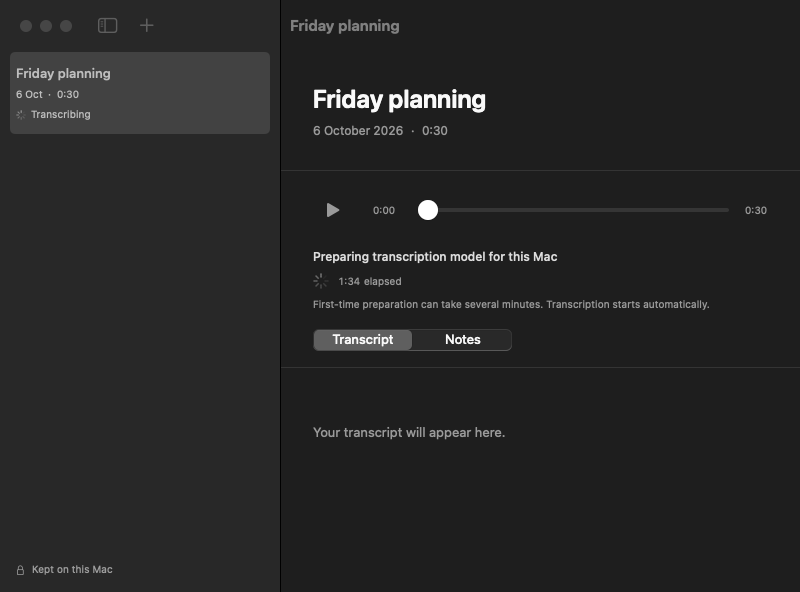
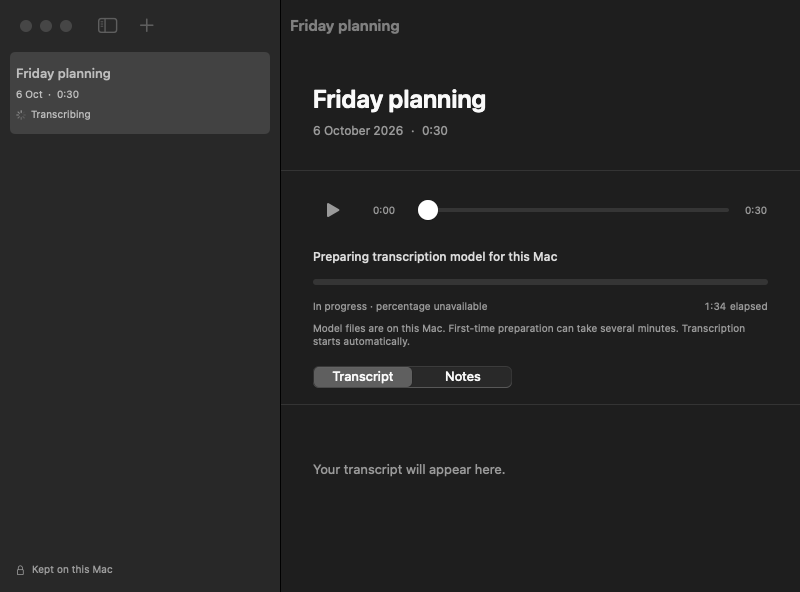
Clarify model preparation and show indeterminate progress bars

Changed region(s): [[0.375, 0.4561, 0.9688, 0.6689], [0.4062, 0.6993, 0.625, 0.7601], [0.4062, 0.7905, 0.625, 0.8209]]

diff --git a/Sources/Recall/Services/LocalSpeechEngines.swift b/Sources/Recall/Services/LocalSpeechEngines.swift
@@ -24,11 +24,12 @@ actor WhisperTranscriptionEngine: TranscriptionEngine {
             localFolder = folder.path
         }
         await progress(ProcessingProgress(message: "Preparing transcription model for this Mac",
-            detail: "First-time preparation can take several minutes. Transcription starts automatically."))
+            detail: "Model files are on this Mac. First-time preparation can take several minutes. Transcription starts automatically."))
         let kit = try await WhisperKit(WhisperKitConfig(model: modelName, downloadBase: models,
             modelFolder: localFolder, verbose: false, prewarm: true, load: true, download: false))
         do {
-            await progress("Transcribing on your Mac")
+            await progress(ProcessingProgress(message: "Transcribing on your Mac",
+                detail: "Model setup is complete. Your recording is now being transcribed locally."))
             let results = try await kit.transcribe(
                 audioPath: audio.path,
                 audioInputOptions: AudioInputOptions(audioLoadingMode: .incremental),
@@ -67,9 +68,10 @@ actor SpeakerDiarizationEngine: DiarizationEngine {
                 try await (diarizer as ModelManager).downloadModels(progressCallback: callback)
             }
             await progress(ProcessingProgress(message: "Preparing speaker models for this Mac",
-                detail: "First-time preparation can take several minutes. Speaker detection starts automatically."))
+                detail: "Model files are on this Mac. First-time preparation can take several minutes. Speaker detection starts automatically."))
             try await diarizer.loadModels()
-            await progress("Listening for different speakers on your Mac")
+            await progress(ProcessingProgress(message: "Listening for different speakers on your Mac",
+                detail: "Your transcript is saved. Identifying speakers in the recording."))
             let samples = try AudioProcessor.loadAudioAsFloatArray(fromPath: audio.path)
             let result = try await kit.diarize(audioArray: samples)
             let turns = result.segments.compactMap { segment -> SpeakerTurn? in

diff --git a/Sources/Recall/Views/ProcessingProgressView.swift b/Sources/Recall/Views/ProcessingProgressView.swift
@@ -26,10 +26,13 @@ struct ProcessingProgressView: View {
                     elapsed
                 }.font(.caption).foregroundStyle(.secondary).lineLimit(1)
             } else {
-                HStack(spacing: 9) {
-                    ProgressView().controlSize(.small)
+                ProgressView().progressViewStyle(.linear).tint(.purple)
+                    .accessibilityLabel(progress.message + ". Progress percentage unavailable.")
+                HStack {
+                    Text("In progress · percentage unavailable")
+                    Spacer()
                     elapsed
-                }.font(.caption).foregroundStyle(.secondary)
+                }.font(.caption).foregroundStyle(.secondary).lineLimit(1)
             }
             if let detail = progress.detail {
                 Text(detail).font(.caption).foregroundStyle(.secondary).lineLimit(2)

diff --git a/Sources/Recall/App/PreviewCapture.swift b/Sources/Recall/App/PreviewCapture.swift
@@ -52,7 +52,7 @@ import AVFoundation
             sample.setUserInfoObject(4_200_000.0, forKey: .throughputKey)
             item.processingProgress = mode == "preparing"
                 ? ProcessingProgress(message: "Preparing transcription model for this Mac", startedAt: Date().addingTimeInterval(-92),
-                    detail: "First-time preparation can take several minutes. Transcription starts automatically.")
+                    detail: "Model files are on this Mac. First-time preparation can take several minutes. Transcription starts automatically.")
                 : ProcessingProgress(message: "Downloading transcription model · 1 of 2", startedAt: Date().addingTimeInterval(-24),
                     download: DownloadProgress(sample), detail: "Models download once and stay on this Mac.")
         }

diff --git a/Sources/Recall/Services/ProcessingProgress.swift b/Sources/Recall/Services/ProcessingProgress.swift
@@ -48,7 +48,8 @@ func withModelDownloadProgress<T>(message: String, progress: @escaping EnginePro
     operation: (@escaping @Sendable (Progress) -> Void) async throws -> T) async throws -> T {
     let startedAt = Date()
     let detail = "Models download once and stay on this Mac."
-    await progress(ProcessingProgress(message: message, startedAt: startedAt, detail: detail))
+    await progress(ProcessingProgress(message: "Checking model files", startedAt: startedAt,
+        detail: "Looking for models on this Mac. Missing files download automatically."))
     let (stream, continuation) = AsyncStream<DownloadProgress>.makeStream(bufferingPolicy: .bufferingNewest(1))
     let consumer = Task {
         for await snapshot in stream {

diff --git a/Tests/RecallTests/DownloadProgressTests.swift b/Tests/RecallTests/DownloadProgressTests.swift
@@ -42,7 +42,7 @@ struct DownloadProgressTests {
         }
         await recorder.append("Preparing")
         let values = await recorder.values
-        #expect(values.first?.message == "Downloading")
+        #expect(values.first?.message == "Checking model files")
         #expect(values.dropLast().last?.download?.percent == 100)
         #expect(values.last?.message == "Preparing")
     }

diff --git a/docs/VALIDATION.md b/docs/VALIDATION.md
@@ -66,3 +66,9 @@ New checks cover partial-file percentages, immutable callback snapshots, unknown
 Inspected native download and preparation panels in light/dark mode at the minimum window size. Bounded multiline labels prevent SwiftUI's split-view minimum-size measurement from expanding the content beyond the window. The captures in `docs/screenshots/model-download.png` and `model-preparation-dark.png` use synthetic progress and an isolated preview library.
 
 Built the optimized ARM64 app as version 0.1.2 (build 3), verified its local code signature, and validated `build/Recall-0.1.2-macOS-arm64.zip` with `unzip -t`. The unversioned transfer ZIP contains the same release. Model weights remain separate and download on each Mac's first use.
+
+## Clarify preparation after restarting (0.1.3)
+
+Preparation now explicitly says the model files are already on the Mac. Stages without a measurable percentage use a native indeterminate linear bar, an explicit percentage-unavailable label, and elapsed time. Before the first download callback, the app says it is checking model files rather than claiming a download is underway. Transcription and speaker detection also explain what is happening and whether the transcript has been saved.
+
+This clarifies recovery of an import interrupted in an earlier version: completed model downloads are reused, models are prepared for use, and unfinished transcription starts again. No processing or persistence behavior changed. All 16 regular tests passed, including disk-backed recovery and callback ordering; the three opt-in integration tests were skipped for this UI/copy change. The native preparation screenshot was refreshed and inspected at the minimum window size in dark mode.

diff --git a/README.md b/README.md
@@ -27,7 +27,7 @@ Failed speaker detection preserves the transcript. Retry resumes the missing sta
 
 ## Models and storage
 
-First import automatically downloads Whisper `large-v3-v20240930_626MB` and SpeakerKit's default Pyannote models from Hugging Face. Each download shows a progress bar, percentage across model files, completed file count, download speed when available, and elapsed time. The SDK weights files equally, so this is file progress, not a byte percentage or time estimate. Model preparation is a separate stage with elapsed time; it can take several minutes on first use. Allow several GB of free space for downloads, compiled models, and audio. No Hugging Face account or API key is required. Subsequent processing uses local models. Foundation Models is supplied and downloaded by macOS itself.
+First import automatically downloads Whisper `large-v3-v20240930_626MB` and SpeakerKit's default Pyannote models from Hugging Face. Each download shows a progress bar, percentage across model files, completed file count, download speed when available, and elapsed time. The SDK weights files equally, so this is file progress, not a byte percentage or time estimate. Model preparation is a separate stage: the files are already on the Mac, and first-time preparation can take several minutes. Preparation and other stages without a measurable percentage show an animated bar, an explicit percentage-unavailable label, and elapsed time. Allow several GB of free space for downloads, compiled models, and audio. No Hugging Face account or API key is required. Subsequent processing uses local models. Foundation Models is supplied and downloaded by macOS itself.
 
 Library: `~/Library/Application Support/Recall/`
 
